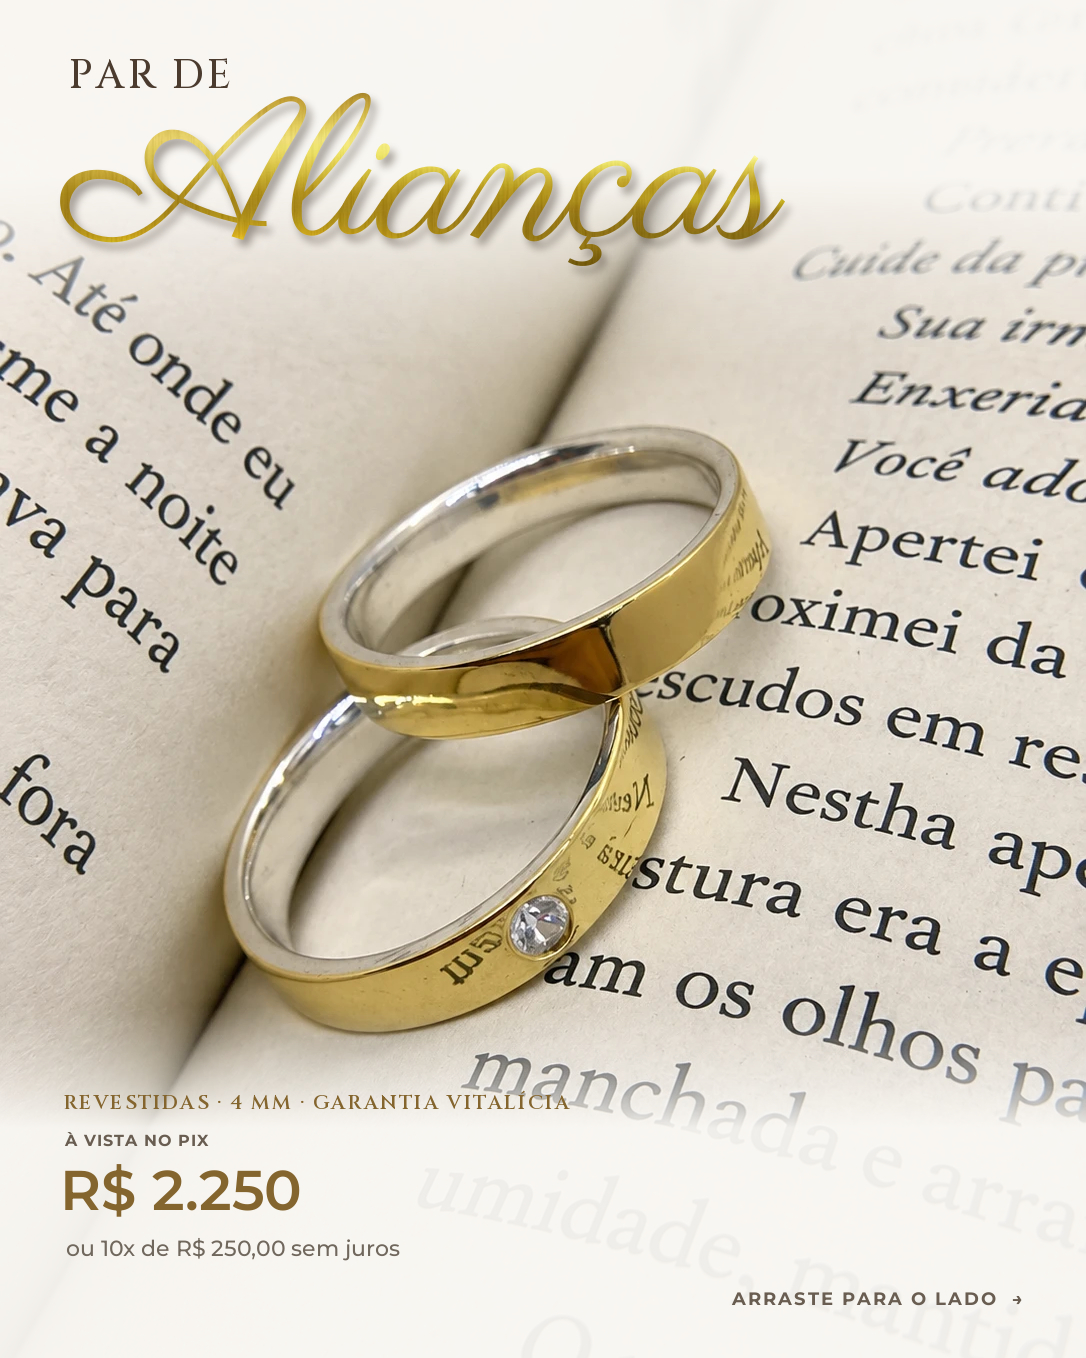
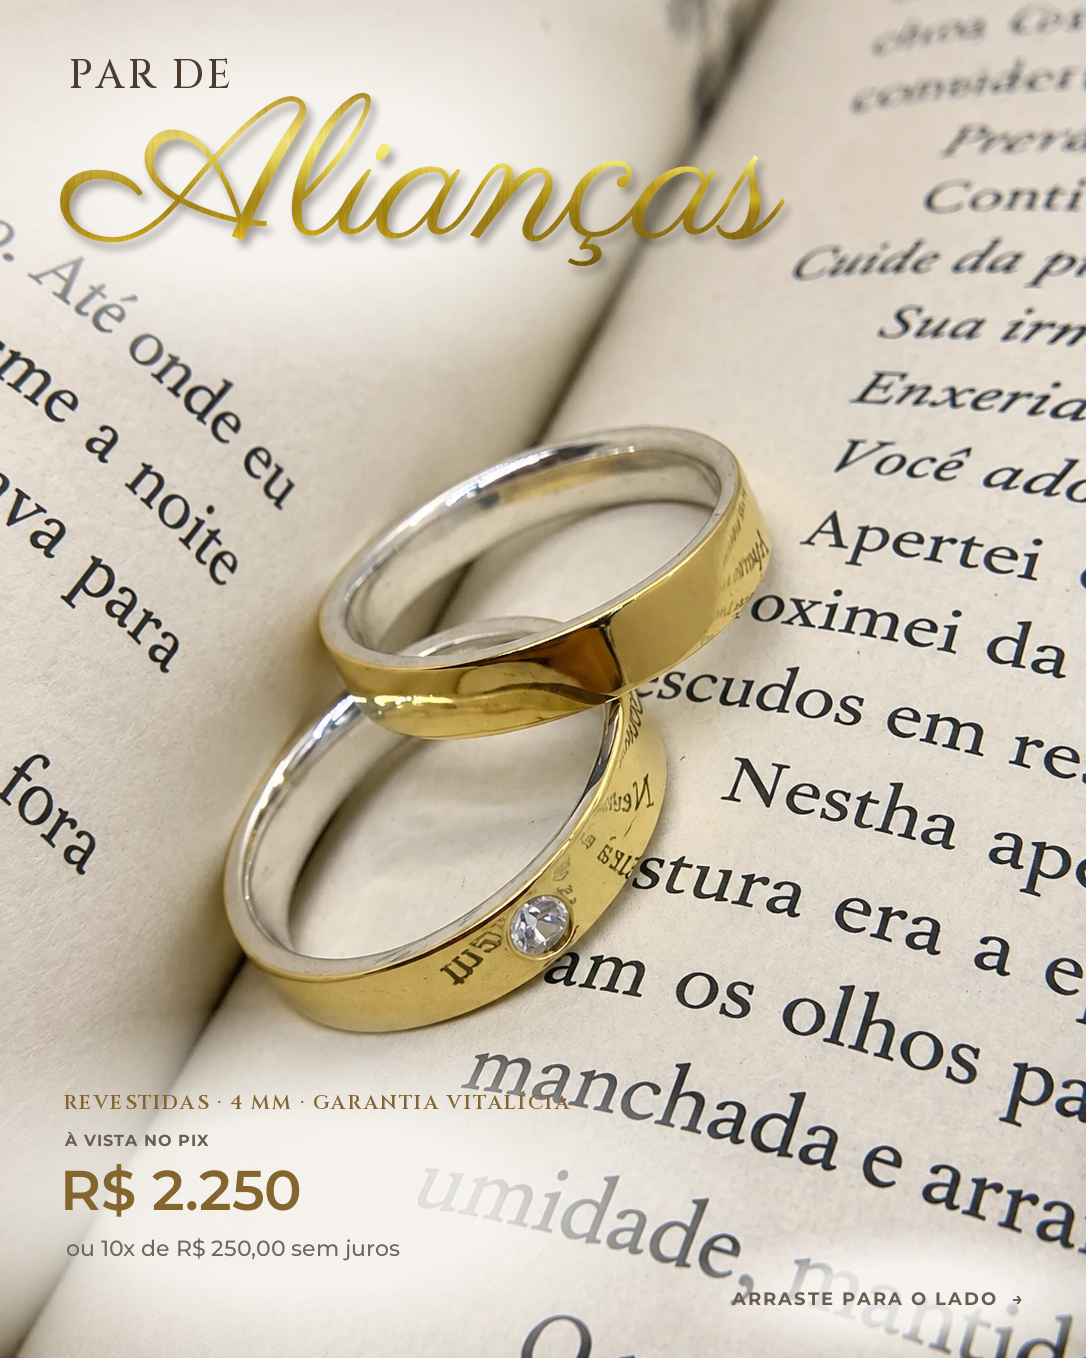
Carrossel das alianças: degradês trocados por clareado suave só atrás dos textos
Claude-Session: https://claude.ai/code/session_01RLP9fKwVsDi588D8MrznBA

diff --git a/aliancas-revestidas/aliancas_rev.py b/aliancas-revestidas/aliancas_rev.py
@@ -17,6 +17,13 @@ def band(img, a0, a1, top=False, strength=0.95):
     a = (np.clip((a1 - yy) / (a1 - a0), 0, 1) if top else np.clip((yy - a0) / (a1 - a0), 0, 1)) ** 1.2 * strength
     lay = Image.new('RGBA', (W, H), (250, 248, 244, 0)); lay.putalpha(Image.fromarray((np.broadcast_to(a, (H, W)) * 255).astype(np.uint8)))
     img.alpha_composite(lay)
+def glow(img, cx, cy, rx, ry, strength=0.88):
+    yy, xx = np.mgrid[0:H, 0:W].astype(np.float32)
+    d = np.sqrt(((xx - cx) / rx) ** 2 + ((yy - cy) / ry) ** 2)
+    a = np.clip(1 - d, 0, 1) ** 0.9
+    a = np.clip(a * 1.6, 0, 1) * strength
+    lay = Image.new('RGBA', (W, H), (250, 248, 244, 0)); lay.putalpha(Image.fromarray((a * 255).astype(np.uint8)))
+    img.alpha_composite(lay)
 def title(img, caps, script, y=58, size=200):
     c = solid_text(caps, caps_font(40, 500), INK, 3); s = gold_text(script, script_font(size))
     paste(img, c, M + 6, y); paste(img, s, M - 4, y + ink_size(c)[1] + 4)
@@ -24,14 +31,14 @@ def swipe(img):
     sw = solid_text('ARRASTE PARA O LADO  →', sans(18, 700), LABEL_COLOR, 2); paste(img, sw, W - M - ink_size(sw)[0], H - 66)
 
 # 1 — the pair + price
-s1 = base(53, 45); band(s1, 0.13, 0.27, top=True); band(s1, 0.74, 0.83)
+s1 = base(53, 45); glow(s1, 290, 180, 440, 210); glow(s1, 300, 1205, 470, 200); glow(s1, 905, 1295, 240, 70)
 title(s1, 'PAR DE', 'Alianças')
 sp = solid_text('REVESTIDAS · 4 MM · GARANTIA VITALÍCIA', caps_font(20, 600), BR, 2); paste(s1, sp, M, 1090); y = 1090 + ink_size(sp)[1]
 price_block(s1, M, y + 22, 'R$ 2.250', 'ou 10x de R$ 250,00 sem juros', size=56)
 swipe(s1); save_hq(s1, D + '01-par-de-aliancas.jpg')
 
 # 2 — with the solitaire: the full set
-s2 = base(52, 45); band(s2, 0.12, 0.25, top=True); band(s2, 0.78, 0.86)
+s2 = base(52, 45); glow(s2, 270, 175, 400, 200); glow(s2, 320, 1225, 420, 130); glow(s2, 905, 1295, 240, 70)
 title(s2, 'DO PEDIDO', 'ao altar', size=180)
 y = H - 175
 for t in ['Combine as alianças', 'com o seu solitário.']:
@@ -39,7 +46,7 @@ for t in ['Combine as alianças', 'com o seu solitário.']:
 swipe(s2); save_hq(s2, D + '02-conjunto.jpg')
 
 # 3 — detail, made to measure
-s3 = base(55, 0); band(s3, 0.10, 0.22, top=True)
+s3 = base(55, 0); glow(s3, 543, 165, 470, 170)
 y = 70
 lay = solid_text('FEITAS SOB MEDIDA', caps_font(30, 600), INK, 4); paste(s3, lay, W / 2, y, anchor='center'); y += ink_size(lay)[1] + 6
 paste(s3, gold_text('para o casal', script_font(110)), W / 2, y, anchor='center')
